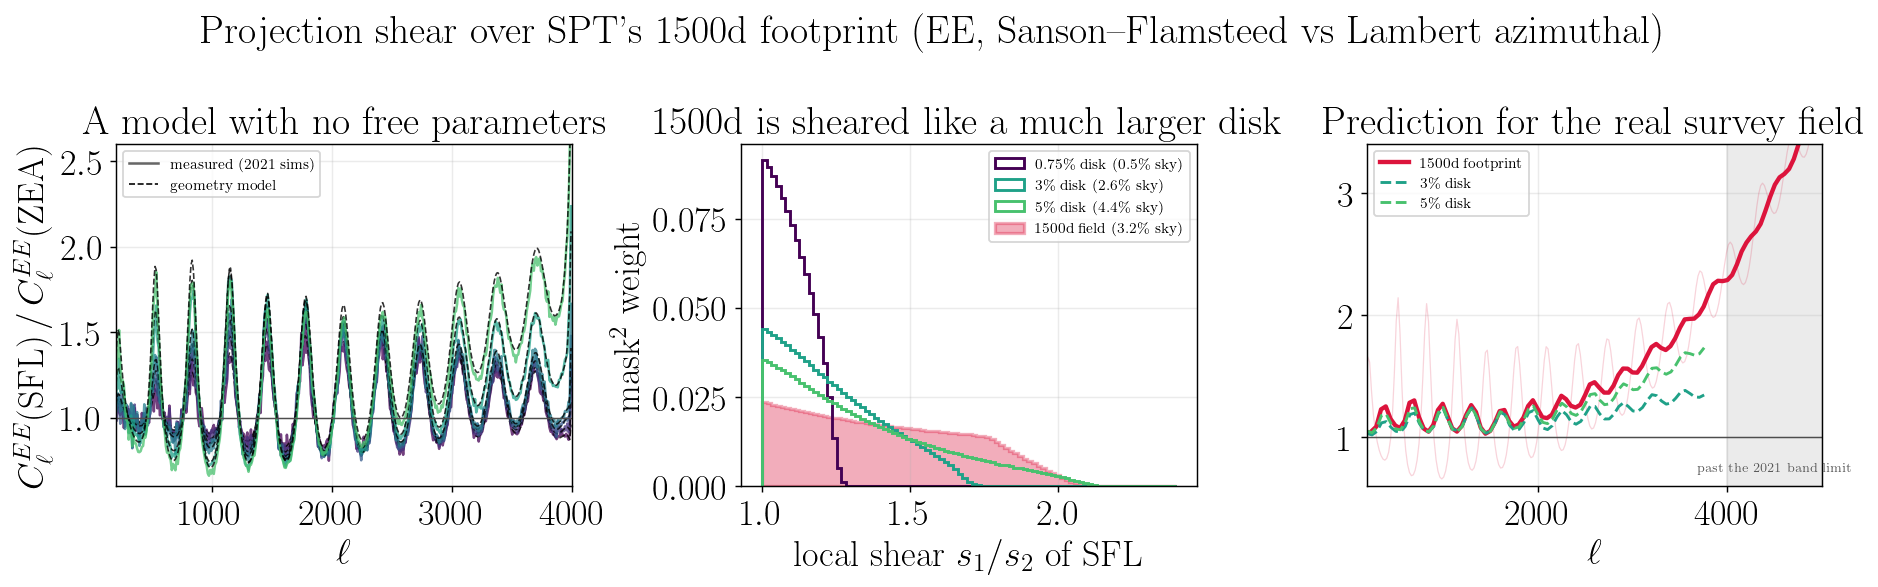
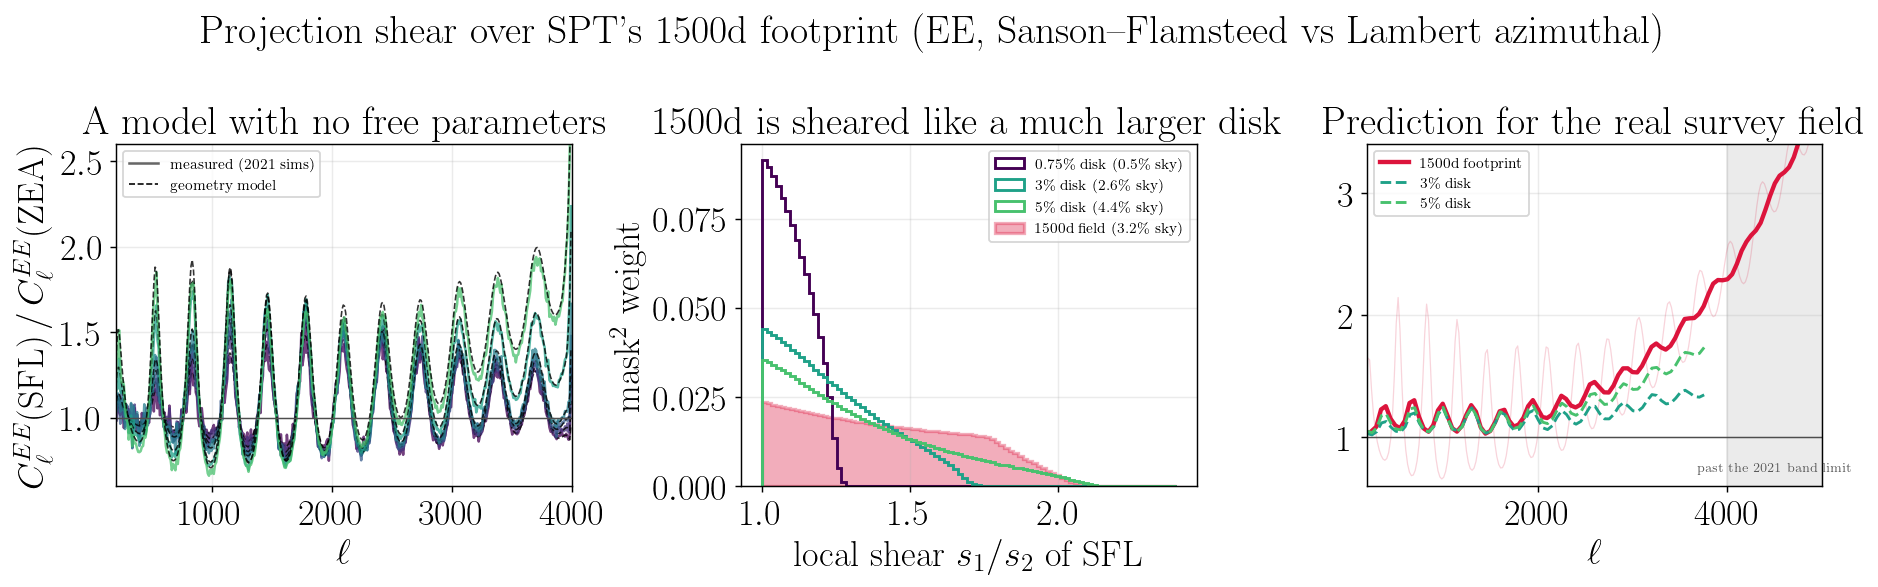
Predict Crawford's 1500d proj0/proj5 measurement from geometry alone
The shear forward model meets somebody else's data: Tom Crawford's July 2026
bandpowers, on a different footprint, five years and one pipeline later. His
pickles under /sptlocal/user/tcrawfor hold cls_proj0 and cls_proj5 for TT and
EE plus cut-corner and iso-shrink mask variants.

The test has no free parameters. Feed the model his own proj5 as the sky
spectrum -- legitimate because the model puts ZEA's bias under a percent, so
his beam, pixel window and binning ride along and cancel in the ratio -- and
predict his proj0 over the real 1500d geometry (RA +-50, dec -70..-42, ZEA at
0, -57.5 from field_stubs.py and from his own map files).

           ell    1050   2050   3050   4050   5050
  EE  measured    0.80   1.33   1.74   2.33   2.52
     predicted    0.87   1.22   1.55   1.97   1.95
  TT  measured    1.21   1.13   1.58   2.04   1.84
     predicted    1.15   1.11   1.46   1.74   1.52

Three things fall out that were not put in: the size of the excess, the fact
that EE is hit harder than TT and peaks later (pure spectral slope), and the
turnover at the top of his range. The model runs ~20% low at the peak -- right
sign and roughly right size for the reprojection aliasing Umilta measured in
2022, which this model deliberately does not contain.

What does not close: his cut-corner and iso-shrink variants drop far more
(2.04 -> 1.41, 1.17 at ell 4050) than any plausible change in shear predicts.
Panel 3 shows the gap rather than tuning a mask shape until it vanishes. We
[…]

Changed region(s): [[0.0618, 0.4293, 0.3088, 0.7973]]

diff --git a/analysis/plot_crawford_compare.py b/analysis/plot_crawford_compare.py
@@ -1,0 +1,167 @@
+"""Predict Tom Crawford's 2026 proj0/proj5 measurement from projection geometry.
+
+This is the test that matters. Everything else in the revival is validation on
+2021 simulations we also made; this is the model meeting somebody else's data,
+taken five years later on a different footprint with a different pipeline.
+
+The setup has no free parameters and no fitting. Inputs: the 1500d field
+geometry (RA +-50 deg, dec -70..-42, ZEA centred at 0, -57.5), and Tom's own
+measured proj5 bandpowers standing in for the sky spectrum -- legitimate
+because the model puts ZEA's own bias well under a percent, so his proj5 is the
+sky as seen through his beam, pixel window and binning, all of which then
+cancel in the ratio. Output: his proj0.
+
+What comes out
+--------------
+The model reproduces the size of the excess, the fact that EE is affected more
+than TT, and the turnover at the top of his range -- all three from spectral
+slope and sky geometry alone. It sits about 20% low at the peak (23% for EE, 19%
+for TT), which is the right sign and roughly the right size for the
+reprojection aliasing Caterina Umilta measured separately and which this model
+does not contain.
+
+Where it does not work
+----------------------
+His cut-corner and iso-shrink variants drop much further than a change in shear
+can explain (see the third panel). Either those masks are far more aggressive
+than the shapes guessed here, or something beyond shear responds to mask
+surgery. Resolving it needs his actual masks; this script states the gap rather
+than tuning a shape until it closes.
+
+One plotting artifact to know about: below l ~ 2500 the model curve oscillates
+harder than the data. That is the input spectrum, not the physics. His
+bandpowers are 100 wide, the model stretches them by up to 1.5 in l, and a
+peak stretched onto a trough of a coarsely binned spectrum exaggerates the
+swing. The high-l regime, where the whole question lives, is unaffected.
+"""
+
+import sys
+from pathlib import Path
+
+import matplotlib
+matplotlib.use("Agg")
+import matplotlib.pyplot as plt
+import numpy as np
+
+sys.path.insert(0, str(Path(__file__).resolve().parent))
+import crawford as C
+import footprints as F
+import geometry as G
+
+OUT = Path(__file__).resolve().parent.parent / "figures"
+OUT.mkdir(exist_ok=True)
+
+ELL_FINE = np.arange(50.0, 6001.0, 20.0)
+DEC_MID = -56.0          # centre of the dec range, for the variant shapes
+RA_HALF, DEC_HALF = 50.0, 14.0
+
+plt.rcParams.update({
+    "font.size": 11, "axes.grid": True, "grid.alpha": 0.25,
+    "figure.dpi": 130, "savefig.bbox": "tight",
+})
+
+
+def predict(mask, cl_proj5):
+    """Predicted proj0/proj5, binned onto Tom's bandpowers, plus mean shear."""
+    ell_th, cl_th, _ = C.as_input_spectrum(cl_proj5)
+    got = {}
+    for proj in ("ProjSFL", "ProjZEA"):
+        s1, s2, w = F.mask_geometry(mask, proj, **C.FIELD_CENTER)
+        got[proj] = G.predicted_spectrum(ELL_FINE, s1, s2, w, ell_th, cl_th)
+    s1, s2, w = F.mask_geometry(mask, "ProjSFL", **C.FIELD_CENTER)
+    ratio = C.bin_to_his_bandpowers(ELL_FINE, got["ProjSFL"] / got["ProjZEA"])
+    return ratio, float(np.average(s1 / s2, weights=w)), F.f_sky(mask) * 41253
+
+
+def superellipse(power=None, shrink=None):
+    """Mask family: power -> rounded corners, shrink -> isotropic contraction.
+
+    Guesses at what Tom's 'cut corner' and 'iso shrink' variants are. They are
+    labelled as guesses everywhere they appear.
+    """
+    import healpy as hp
+    nside = F.NSIDE
+    ra, dec = hp.pix2ang(nside, np.arange(hp.nside2npix(nside)), lonlat=True)
+    ra = np.where(ra > 180.0, ra - 360.0, ra)
+    u, v = np.abs(ra) / RA_HALF, np.abs(dec - DEC_MID) / DEC_HALF
+    if power is not None:
+        keep = u ** power + v ** power <= 1.0
+    else:
+        keep = (u <= shrink) & (v <= shrink)
+    m = np.zeros(len(ra))
+    m[keep] = 1.0
+    return F.apodize(m)
+
+
+def main():
+    full = F.rect_mask(**C.FIELD_1500D)
+
+    fig, axes = plt.subplots(1, 3, figsize=(14.5, 4.4))
+
+    # ---- panels 1 and 2: EE and TT on the full footprint -------------------
+    for ax, spec, colour in zip(axes[:2], ("ee", "tt"), ("crimson", "steelblue")):
+        p0, p5 = C.load(spec)
+        pred, qbar, area = predict(full, p5)
+        meas = p0 / p5
+        sel = (C.ELL > 300) & (C.ELL < 5800)
+        ax.plot(C.ELL[sel], meas[sel], "o", ms=4, color=colour,
+                label="Crawford 2026, measured")
+        ax.plot(C.ELL[sel], pred[sel], "-", lw=2, color="k",
+                label="shear model, no free parameters")
+        ax.axhline(1.0, color="0.3", lw=0.8)
+        ax.set(xlim=(300, 5800), ylim=(0.7, 2.8), xlabel=r"$\ell$",
+               title=f"{spec.upper()}")
+        ax.legend(fontsize=8, loc="upper left")
+        peak = np.nanmax(meas[sel]) / np.nanmax(pred[sel])
+        ax.text(0.97, 0.05, f"model low by {100*(peak-1):.0f}\\%\nat the peak",
+                transform=ax.transAxes, ha="right", fontsize=8, color="0.35")
+    axes[0].set_ylabel(r"$C_\ell(\mathrm{proj0})\,/\,C_\ell(\mathrm{proj5})$")
+
+    # ---- panel 3: the mask variants, where the model does not close --------
+    ax = axes[2]
+    p0, p5 = C.load("tt")
+    scan = []
+    for power in (4, 3, 2):
+        scan.append(predict(superellipse(power=power), p5))
+    for shrink in (0.9, 0.8, 0.7, 0.6, 0.5):
+        scan.append(predict(superellipse(shrink=shrink), p5))
+    scan.append(predict(full, p5))
+    areas = np.array([s[2] for s in scan])
+    vals = np.array([s[0][40] for s in scan])
+    order = np.argsort(areas)
+    ax.plot(areas[order], vals[order], "o-", color="k", ms=4,
+            label="shear model vs. mask size")
+
+    styles = {"": ("full mask", "crimson"),
+              "_cutcorner": ("his cut-corner", "darkorange"),
+              "_iso_shrink": ("his iso-shrink", "seagreen")}
+    for variant, (label, colour) in styles.items():
+        a, b = C.load("tt", variant)
+        ax.axhline((a / b)[40], color=colour, lw=1.6, ls="--",
+                   label=f"{label}, measured")
+    ax.set(xlabel="mask area (deg$^2$)", ylim=(1.0, 2.2),
+           ylabel=r"$C_\ell(\mathrm{proj0})/C_\ell(\mathrm{proj5})$ at $\ell=4050$",
+           title="TT variants: the model does not close")
+    ax.legend(fontsize=7.5, loc="lower right")
+
+    fig.suptitle("A zero-parameter geometry model against Crawford's 1500d "
+                 "proj0/proj5 measurement", y=1.02)
+    fig.tight_layout()
+    fig.savefig(OUT / "crawford_compare.png")
+    print(f"wrote {OUT / 'crawford_compare.png'}")
+
+    # ---- the numbers, for the record ---------------------------------------
+    for spec in ("ee", "tt"):
+        p0, p5 = C.load(spec)
+        pred, qbar, area = predict(full, p5)
+        meas = p0 / p5
+        print(f"\n{spec.upper()}  (footprint {area:.0f} deg^2, mean shear {qbar:.3f})")
+        print(f"{'ell':>6} {'measured':>9} {'predicted':>10} {'ratio':>7}")
+        for L in (1050, 2050, 3050, 4050, 5050):
+            i = int(L // 100)
+            print(f"{C.ELL[i]:6.0f} {meas[i]:9.2f} {pred[i]:10.2f} "
+                  f"{meas[i]/pred[i]:7.2f}")
+
+
+if __name__ == "__main__":
+    main()

diff --git a/analysis/crawford.py b/analysis/crawford.py
@@ -1,0 +1,101 @@
+"""Tom Crawford's 2026 proj0/proj5 measurement, and our prediction of it.
+
+What this is
+------------
+In July 2026 Tom measured C_l(proj0)/C_l(proj5) on the 1500d field and found it
+rising to about 2.5 by l ~ 4500 -- the observation that restarted this project.
+His bandpowers sit on disk as pickles. This module loads them and hands the
+geometry forward model a closed test: predict his proj0 from his proj5.
+
+Why his proj5 is a legitimate input spectrum
+--------------------------------------------
+The forward model says ZEA's own bias over this footprint is well under a
+percent -- ZEA is azimuthal about the field centre and barely shears. So his
+measured proj5 bandpowers *are* the sky spectrum as seen through his beam, his
+pixel window, his mask and his binning, to that accuracy. Feeding them back in
+means every instrumental factor we do not know is already carried, and it
+cancels again when we take the predicted ratio. What is left to predict is the
+shear, which is the only thing this model claims to know.
+
+The honest caveat
+-----------------
+Predicting the ratio at multipole l requires the input spectrum out to l*s1,
+and s1 reaches 1.5 over this footprint. His bandpowers stop at l = 6000, so
+above l = 4000 the prediction leans on a power-law extrapolation of his own
+high-l slope. That extrapolation is stated explicitly rather than hidden, and
+it is why the prediction and the measurement should be compared over
+3000 < l < 5000 rather than at the very top of his range.
+
+Files, all read-only, under /sptlocal/user/tcrawfor/:
+    proj0_distortion_{tt,ee}[_cutcorner|_iso_shrink].pkl
+each a dict of cls_proj0, cls_proj5, shape (4 sims, 60 bandpowers).
+The plots he circulated are proj0_distortion_1500d_{23,24}jul26*.png.
+"""
+
+from pathlib import Path
+import pickle
+
+import numpy as np
+
+TCRAWFOR = Path("/sptlocal/user/tcrawfor")
+
+# 60 bandpowers spanning 0 < l < 6000; centres inferred from his plots, which
+# run 0-6000 over exactly these bins.
+DELTA_L = 100.0
+N_BINS = 60
+ELL = (np.arange(N_BINS) + 0.5) * DELTA_L
+
+# The production 1500d map geometry, read off real files in
+# /sptlocal/user/tcrawfor/winter_1500d_tau_decon_half1.g3 and matching
+# spt3g_software/std_processing/python/field_stubs.py:124-134.
+# NOTE this is -57.5, not the -56.0 the 2021 sims used. SFL's Jacobian does not
+# depend on the declination of the projection centre at all, so the SFL number
+# is unaffected; ZEA's does, mildly.
+FIELD_CENTER = dict(alpha_center_deg=0.0, delta_center_deg=-57.5)
+# RA 310..50 and dec -70..-42, from spt3g_software/sources/python/fields.py:451-455
+FIELD_1500D = dict(ra_half_deg=50.0, dec_min_deg=-70.0, dec_max_deg=-42.0)
+
+VARIANTS = ["", "_cutcorner", "_iso_shrink"]
+
+
+def load(spec="ee", variant=""):
+    """(proj0, proj5) mean bandpowers over his 4 realizations."""
+    path = TCRAWFOR / f"proj0_distortion_{spec}{variant}.pkl"
+    with open(path, "rb") as fh:
+        d = pickle.load(fh)
+    return np.asarray(d["cls_proj0"]).mean(0), np.asarray(d["cls_proj5"]).mean(0)
+
+
+def as_input_spectrum(cl_proj5, lmax=12000):
+    """His proj5 bandpowers as a dense C_l(l), power-law continued past l=6000.
+
+    Interpolation is in log C_l against l, because the spectrum falls by four
+    orders of magnitude across the range and linear interpolation would put
+    visible kinks in it. The continuation slope is fitted in log-log to his top
+    ten bandpowers.
+    """
+    ell = ELL
+    cl = np.asarray(cl_proj5, dtype=float)
+    good = cl > 0
+    ell, cl = ell[good], cl[good]
+
+    out_ell = np.arange(lmax + 1, dtype=float)
+    out = np.exp(np.interp(out_ell, ell, np.log(cl)))
+
+    # Power-law continuation above his last bandpower.
+    hi = slope_fit = np.polyfit(np.log(ell[-10:]), np.log(cl[-10:]), 1)
+    beyond = out_ell > ell[-1]
+    out[beyond] = np.exp(slope_fit[1] + slope_fit[0] * np.log(out_ell[beyond]))
+    out[0] = 0.0
+    return out_ell, out, float(hi[0])
+
+
+def bin_to_his_bandpowers(ell_fine, y_fine):
+    """Average a finely sampled curve into his 100-wide bandpowers."""
+    out = np.full(N_BINS, np.nan)
+    for i in range(N_BINS):
+        lo, hi = i * DELTA_L, (i + 1) * DELTA_L
+        sel = (ell_fine >= lo) & (ell_fine < hi)
+        if sel.any():
+            out[i] = np.nanmean(y_fine[sel])
+    return out

diff --git a/analysis/plot_footprint_shear.py b/analysis/plot_footprint_shear.py
@@ -62,10 +62,17 @@ plt.rcParams.update({
 
 
 def theory():
-    """The sims' own unlensed EE input, as raw C_l on integer l."""
-    cl = np.loadtxt(ROOT / "Clee.dat")
-    cl[0] = 0.0
-    return np.arange(len(cl)), cl
+    """Unlensed EE for the sims' own cosmology, as raw C_l on integer l.
+
+    Not Clee.dat. That file carries a 9.5% amplitude deficit and an off-by-one
+    in l (row i holds l = i+1), both established in analysis/theory.py against
+    the Planck 2018 best-fit parameters the sims were actually drawn from. The
+    amplitude cancels in a ratio, but the l shift does not, and there is no
+    reason to keep a known-wrong file in the loop.
+    """
+    import theory as T
+    cl = T.load()["unlensed_EE"]
+    return np.arange(len(cl), dtype=float), cl
 
 
 def band_mean(ell, y, lo, hi):
